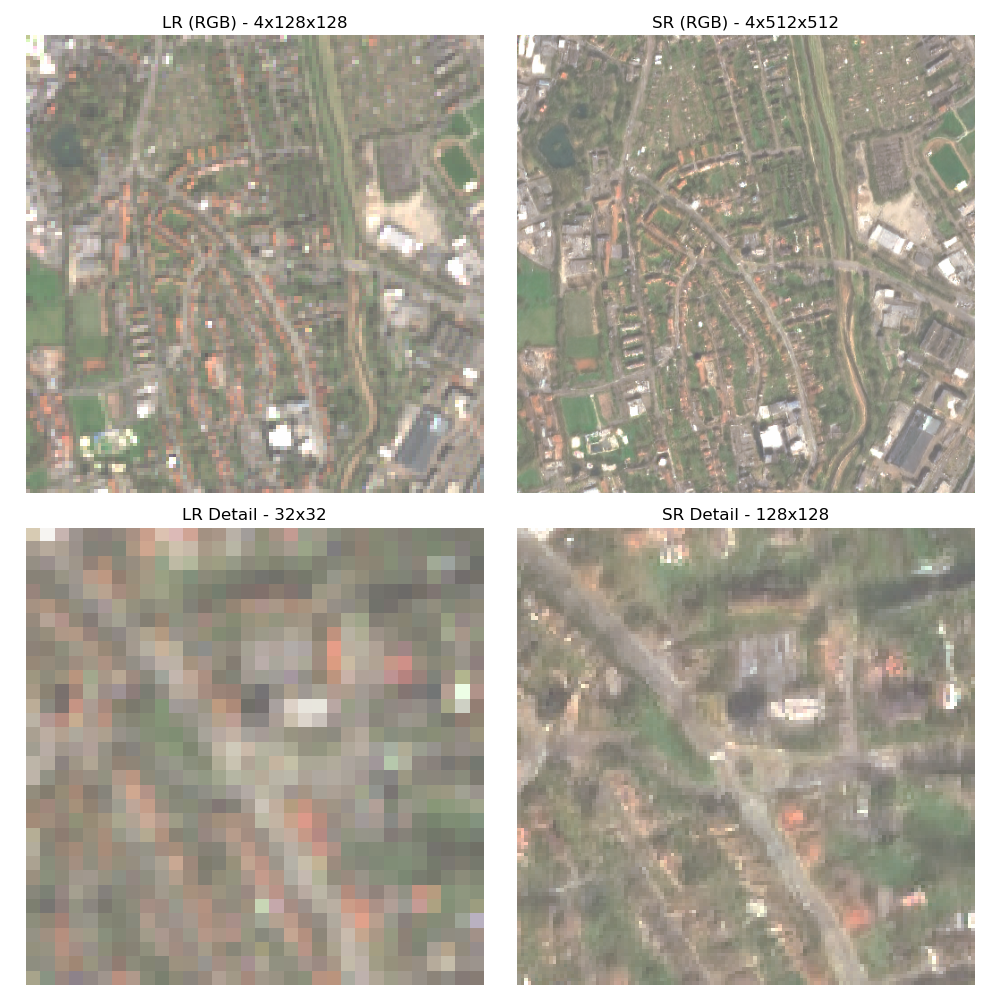
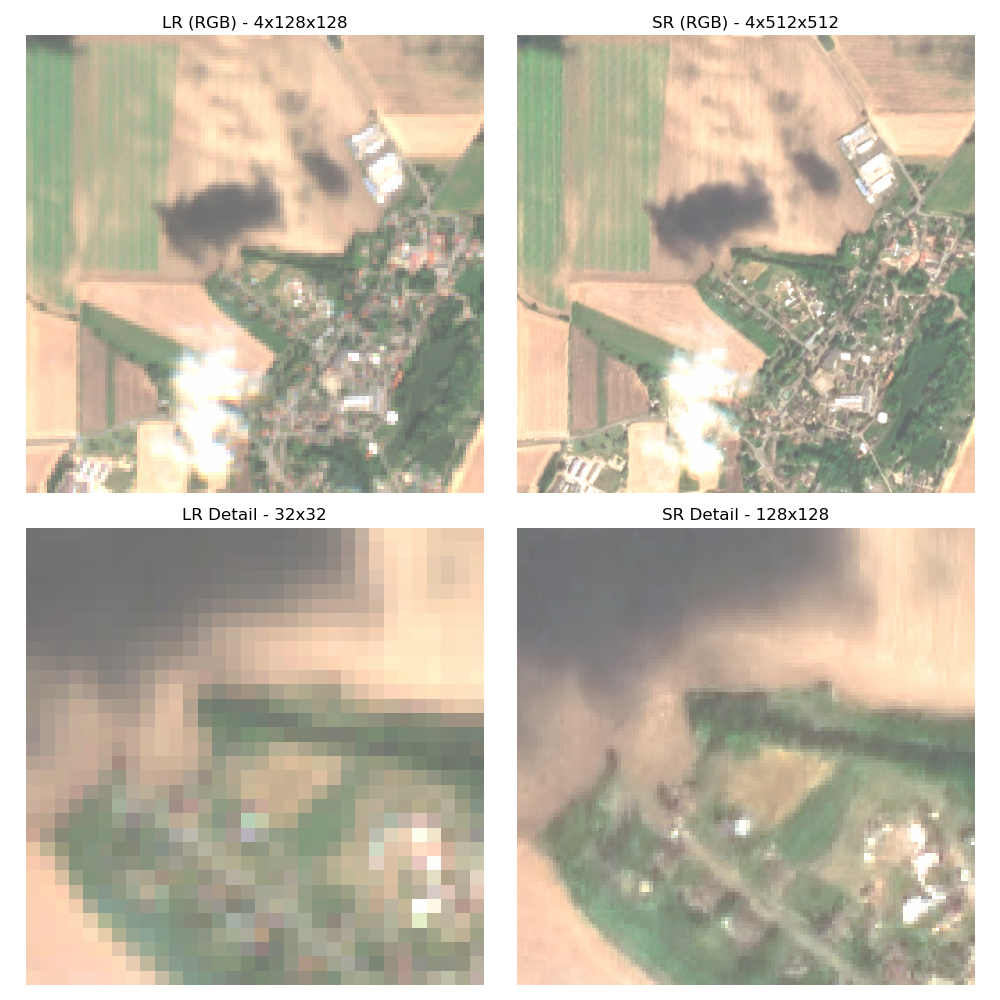
fix: update start and end date in pipeline.sh

diff --git a/experiments/LDSR-S2/LDSR-S2_main.py b/experiments/LDSR-S2/LDSR-S2_main.py
@@ -63,10 +63,10 @@ if __name__ == "__main__":
     assert model.training == False, "Model has to be in eval mode."
 
     # Define Coordinates and Time
-    LATITUDE =51.5413
-    LONGITUDE = 9.9158
-    START_DATE = "2025-04-01"  # Set date (be mindful of cloud cover)
-    END_DATE = "2025-04-30"
+    LATITUDE =51.583974
+    LONGITUDE = 11.596080
+    START_DATE = "2025-08-18"  # Set date (be mindful of cloud cover)
+    END_DATE = "2025-08-20"
 
     # Get image - Shape needs to be Bx4x128x128
     lr = get_s2_scene(LATITUDE, LONGITUDE, START_DATE, END_DATE)
